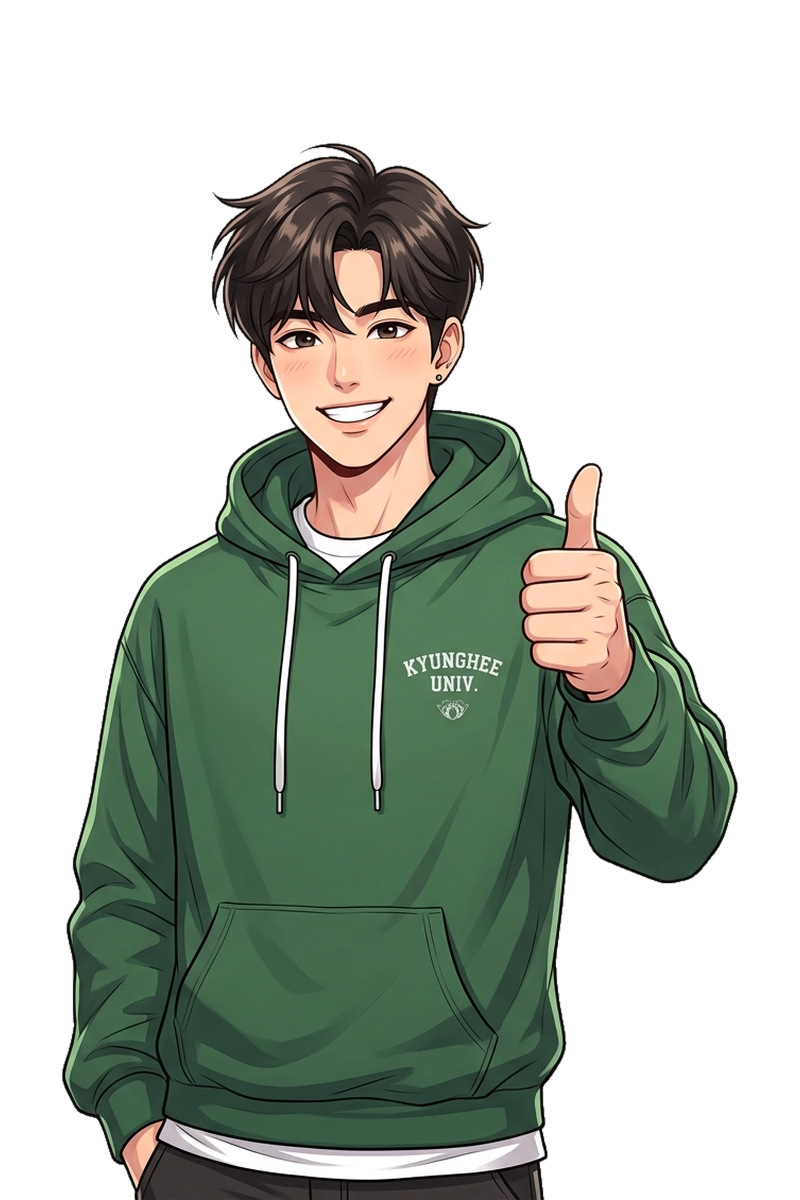
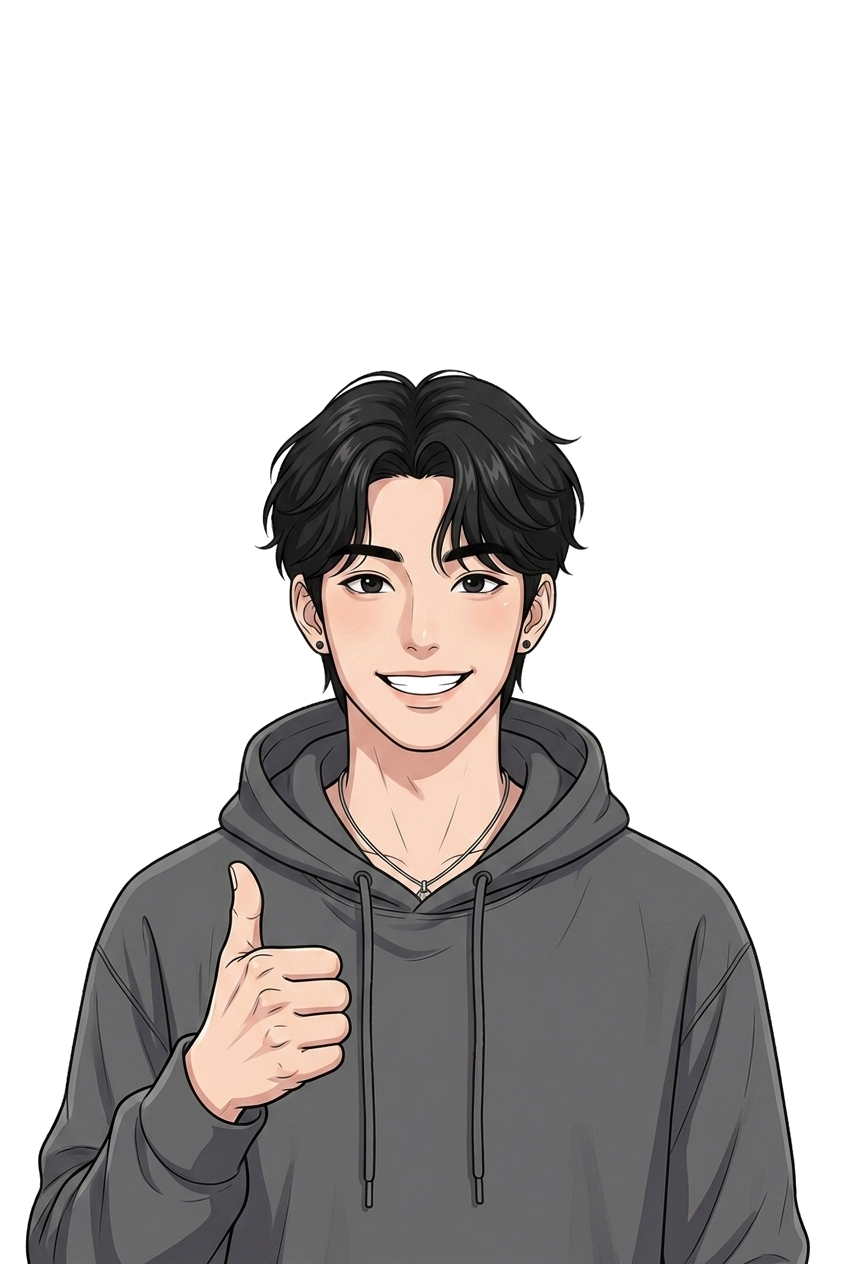
Fix: 1:1 적성분류 상담 카운터 배경 및 검사장 내 판정관 심사 카운터 배경(대통령 사진/깃발 제거) 전면 교체, 민우 캐릭터 의상 일관성(그레이 후디) 통일, 메인메뉴 이동 버튼 정상화

diff --git a/index.html b/index.html
@@ -2539,11 +2539,26 @@
     }
 
     // 메인 로비 메뉴로 복귀
+    function openLobby() {
+      showMainMenu();
+    }
     function showMainMenu() {
       playBeep(600, 'triangle', 0.05);
       clearInterval(typingInterval);
       clearTimeout(autoPlayTimer);
       isTyping = false;
+      if ('speechSynthesis' in window) window.speechSynthesis.cancel();
+
+      const choiceOverlay = document.getElementById('center-choice-overlay');
+      if (choiceOverlay) {
+        choiceOverlay.classList.add('hidden');
+        choiceOverlay.classList.remove('flex');
+      }
+      const certModal = document.getElementById('cert-modal');
+      if (certModal) {
+        certModal.classList.add('hidden');
+        certModal.classList.remove('flex');
+      }
       const menu = document.getElementById('main-menu-overlay');
       if (menu) menu.classList.remove('hidden');
       updateLobbyResumeButton();
